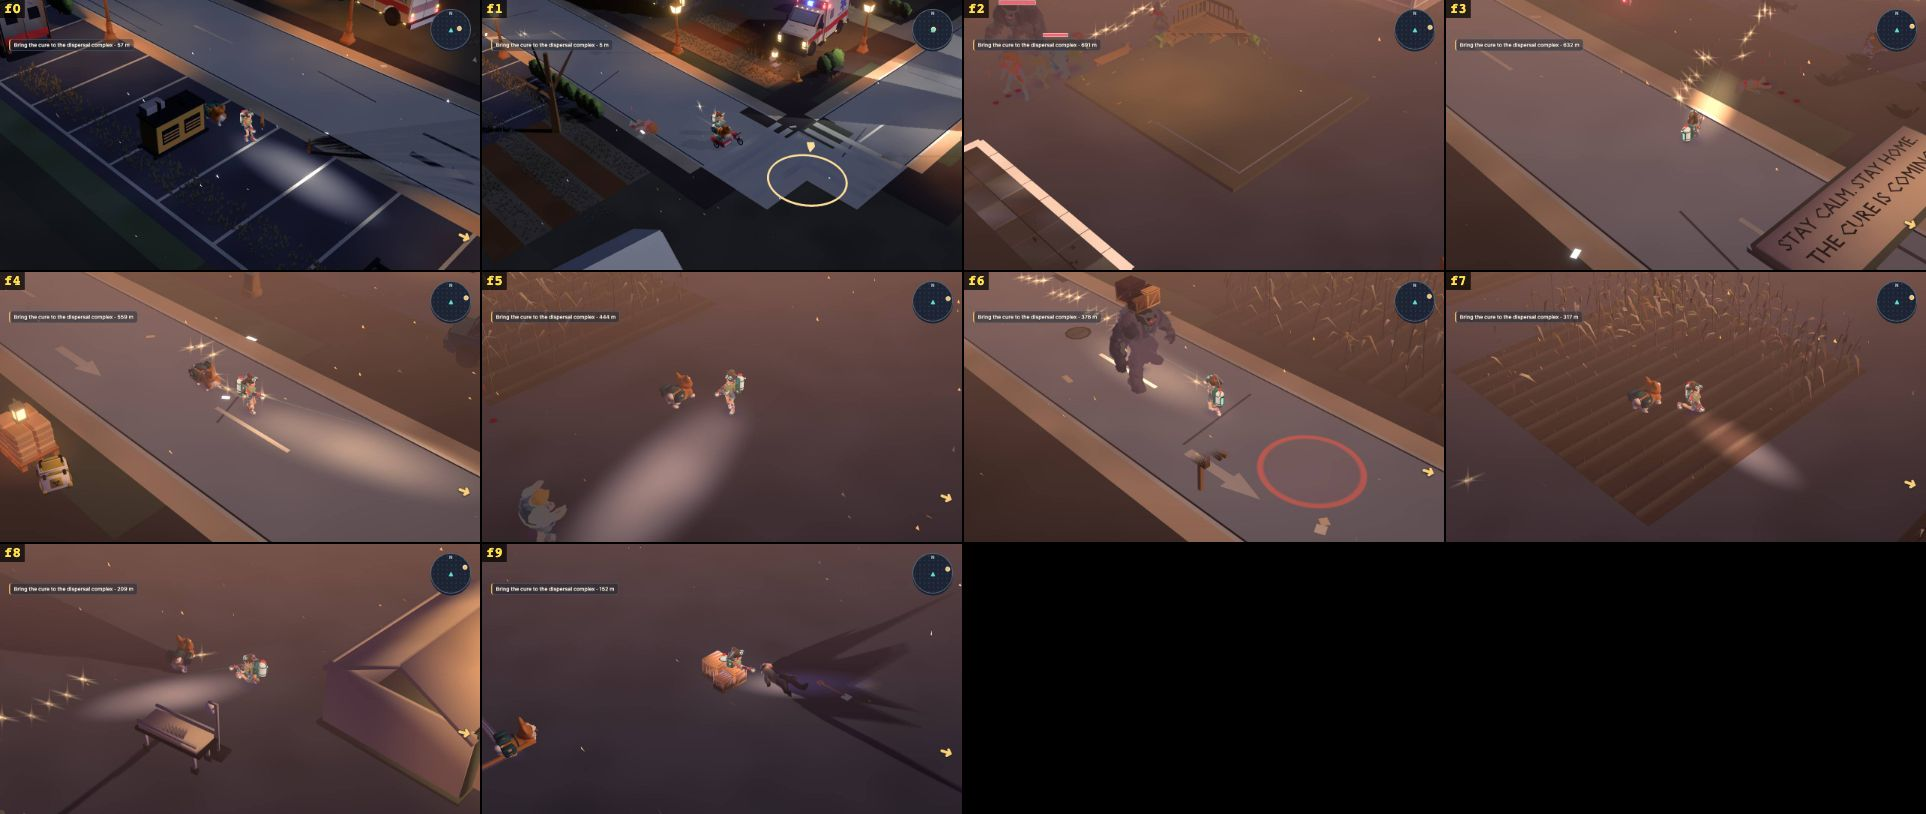
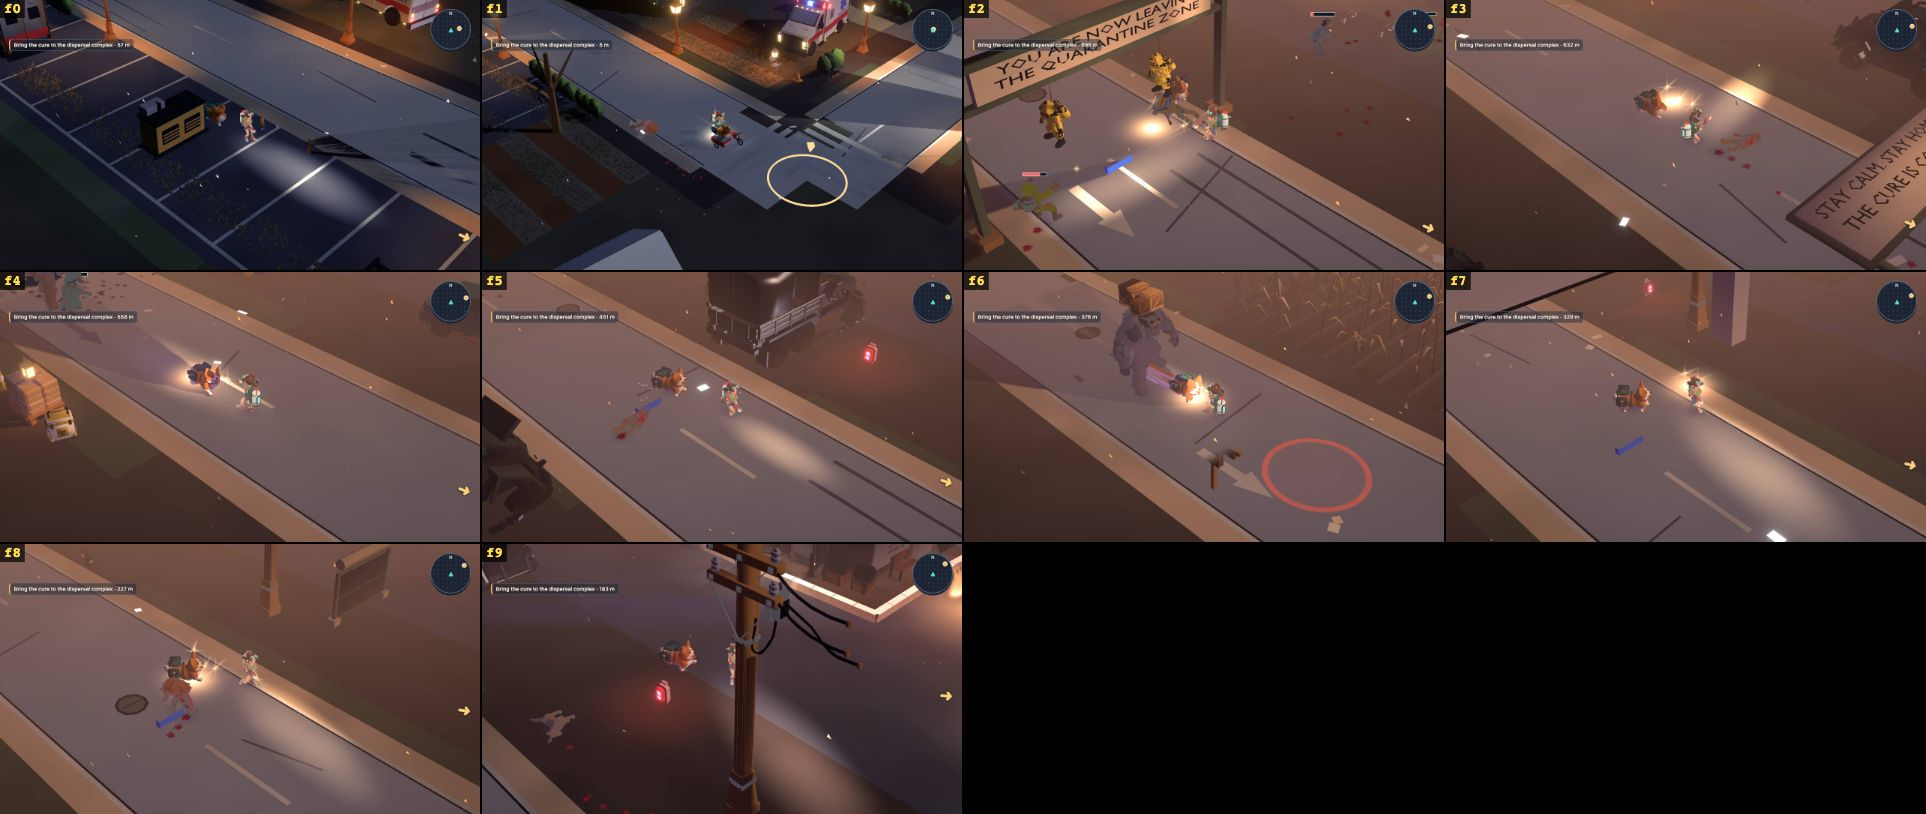
Advance visual clock during native finale capture

diff --git a/tools/qa/s212e-native-captures.ts b/tools/qa/s212e-native-captures.ts
@@ -12,7 +12,7 @@ try {
   const cells: { frame: number; jpeg: Buffer }[] = [];
   let next = 0;
   for (let i = 0; i < 3000 && next < beats; i++) {
-    const state = await s.page.evaluate(async () => { await window.__SS__!.step(30); const w = (window.__SCENE__ as unknown as {game: Game}).game.world; const p = w.entities.get(1)!, bike = w.vehicles?.bicycle.entity, dog = [...w.entities.iterate()].find(e => e.companion); return { x: p.transform.x, z: p.transform.z, tick: w.tick, phase: w.missions!.state.phase, riding: !!w.vehicles?.bicycle.riding, bikeId: bike?.id, corgiPassengerOf: dog?.passengerOf, beats: Array.from({ length: 10 }, (_, n) => !!w.missions!.state.states[`l10-finale-beat-${n}`]) }; });
+    const state = await s.page.evaluate(async () => { const game = (window.__SCENE__ as unknown as {game: Game}).game; game.view.frame(.5); await window.__SS__!.step(30); const w = game.world; const p = w.entities.get(1)!, bike = w.vehicles?.bicycle.entity, dog = [...w.entities.iterate()].find(e => e.companion); return { x: p.transform.x, z: p.transform.z, tick: w.tick, phase: w.missions!.state.phase, riding: !!w.vehicles?.bicycle.riding, bikeId: bike?.id, corgiPassengerOf: dog?.passengerOf, beats: Array.from({ length: 10 }, (_, n) => !!w.missions!.state.states[`l10-finale-beat-${n}`]) }; });
     if (state.beats[next]) {
       await s.page.evaluate(async () => window.__SS__!.screenshotReady());
       cells.push({ frame: next, jpeg: await s.snapshot() }); console.log(JSON.stringify({ beat: next, ...state })); next++;

diff --git a/docs/reports/s212f-finale/README.md b/docs/reports/s212f-finale/README.md
@@ -24,7 +24,7 @@ The native route still misses the 420–540 s hangar-to-gate duration and 45–7
 
 ## Visual evidence
 
-The [native HIGH zoom-1 sheet](native-finale-high.jpg) was captured from the research checkpoint with ordinary bot input and inspected. Beat 0 shows the road and courier by a generator; 1 shows the mounted bike and sidecar at an intersection; 2 shows a hazy empty field; 3 shows the billboard at the frame edge; 4 shows road without readable scarecrows; 5 shows the courier in open haze; 6 shows the Mega holding the crate; 7 shows crop rows rather than a readable underpass; 8 shows a tent edge and bench without silhouettes; 9 shows open ground and a crate without a readable gate or searchlight. The sheet confirms that the route and framing still need work.
+The [native HIGH zoom-1 sheet](native-finale-high.jpg) was captured from the research checkpoint with ordinary bot input and inspected. The capture advances the render clock with the simulation: without that, an explosion's white flash persisted in every later frame. Beat 0 shows the courier beside a generator; 1 shows the mounted bike and sidecar at an intersection; 2 shows the quarantine gantry and a fight; 3 shows the billboard at the frame edge; 4 shows road without readable scarecrows; 5 shows a truck and combat; 6 shows the Mega holding the crate; 7 shows road, a pier and an emergency light without a readable underpass; 8 shows road and a sign without readable hospital tents or silhouettes; 9 shows a utility pole and building without a readable gate or searchlight. The sheet confirms that the route and framing still need work.
 
 ## Checks
 
